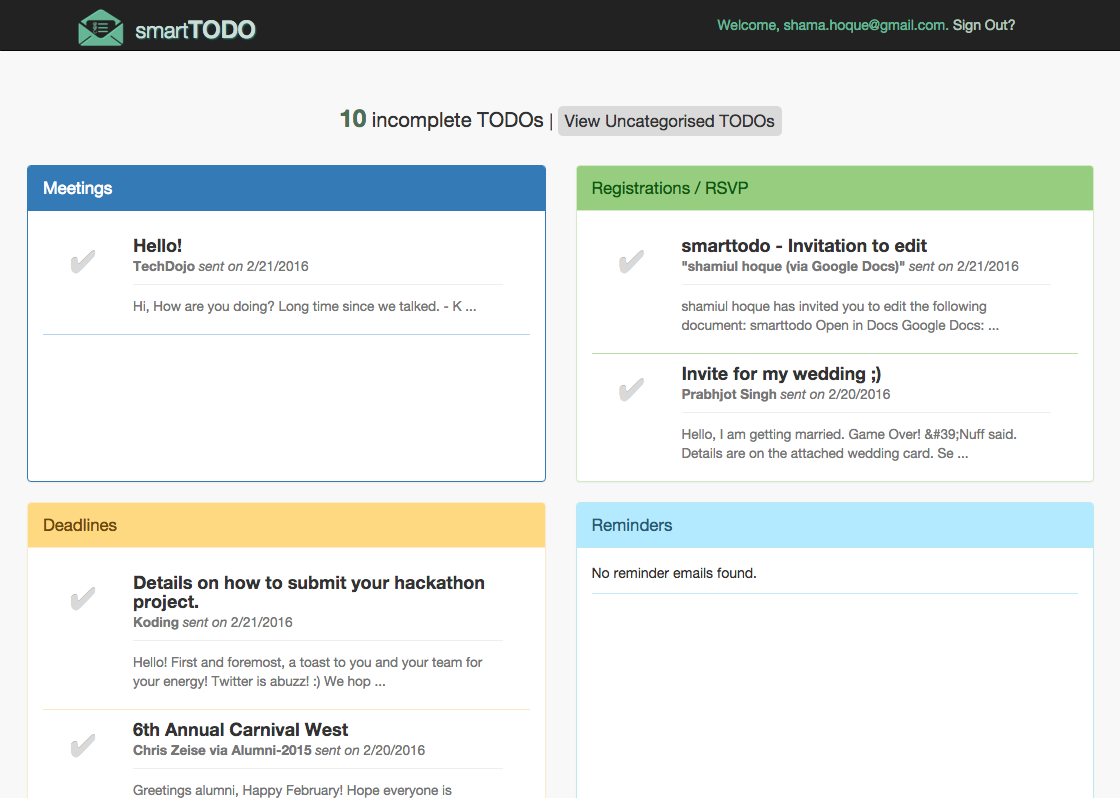
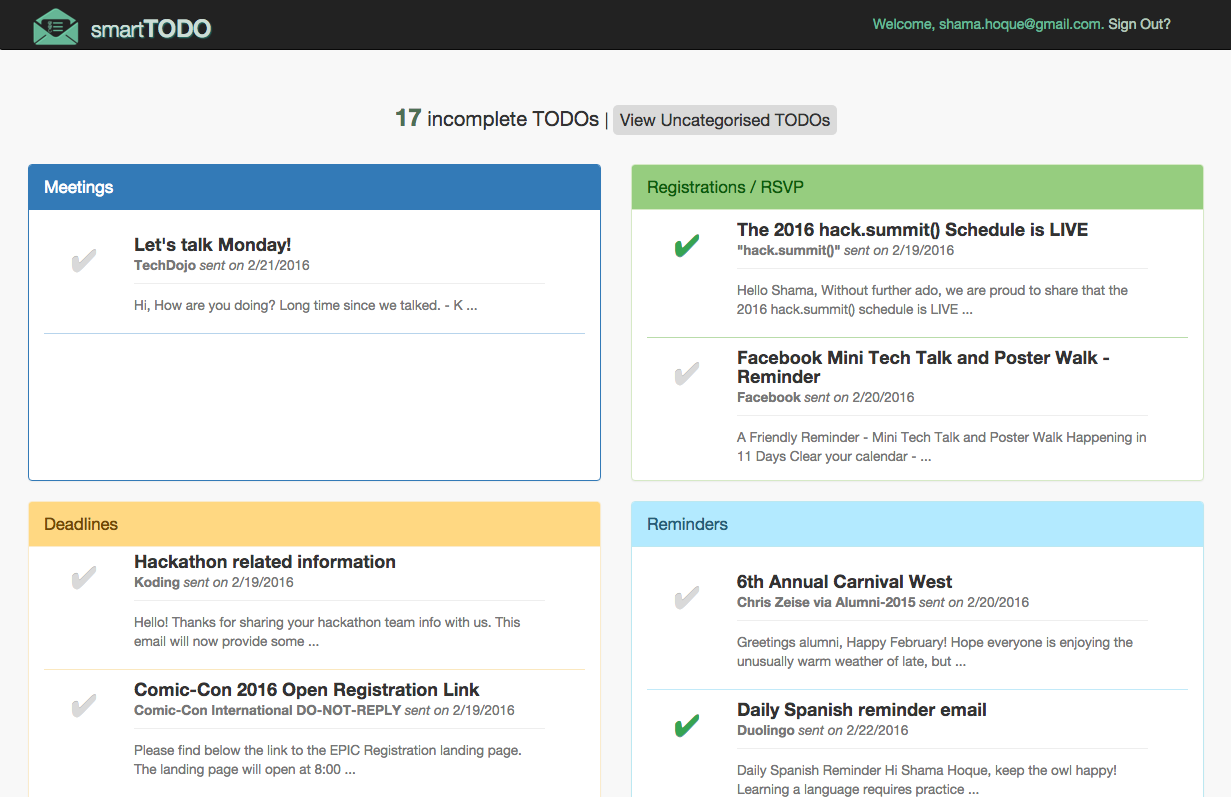
20 emails and tweaks

diff --git a/app/components/core/Home.jsx b/app/components/core/Home.jsx
@@ -44,12 +44,12 @@ class Home extends React.Component {
             </p>
           </Jumbotron>
 
-            <Col lg={5} md={5} sm={5} xs={5}>
+            <Col lg={6} md={6} sm={6} xs={6}>
               <h2 className="details">Preview</h2>
               <hr/>
               <img className="preview" src="static/images/preview.png"/>
             </Col>
-            <Col lg={7} md={7} sm={7} xs={7}>
+            <Col lg={6} md={6} sm={6} xs={6}>
               <h2 className="details">How it works</h2>
 
               <hr/>
@@ -62,7 +62,7 @@ class Home extends React.Component {
                 <p>This app has been built for the <a href="https://www.koding.com/Hackathon" target="_blank">hack.summit() Virtual Hackathon 2016</a>. </p>
 <p>For this demo, 20 emails are fetched only once when a user logs in with Gmail for the first time. No subsequent fetch calls are made if the user logs out and logs in again. The TODO data is persisted throughout each server session, and resets if the server is restarted.
 </p>
-<p>Disclaimer: The sample size of training data is small given the time constraints, hence high accuracy in email classification cannot be guaranteed.</p>
+<p><em>Disclaimer</em>: The sample size of training data is small given the time constraints, hence high accuracy in email classification is not guaranteed.</p>
 
 <p><a href="https://github.com/tech-dojo/smartToDo" target="_blank">GitHub link to the code</a></p>
 

diff --git a/server/controllers/users.server.controller.js b/server/controllers/users.server.controller.js
@@ -96,7 +96,7 @@ function getFirstEmails(auth, res, user){
 	google.gmail('v1').users.messages.list({
 		auth: auth,
 		userId: 'me',
-		maxResults: 10,
+		maxResults: 20,
 		labelIds: ['INBOX','IMPORTANT']
 	}, function(err, response){
 		if (err) {
@@ -150,7 +150,7 @@ function getFirstEmails(auth, res, user){
 			 }
 			 			setTimeout(function(){
 							res.json(user);
-						}, 3000);
+						}, 4000);
 
 		 }
 	});
